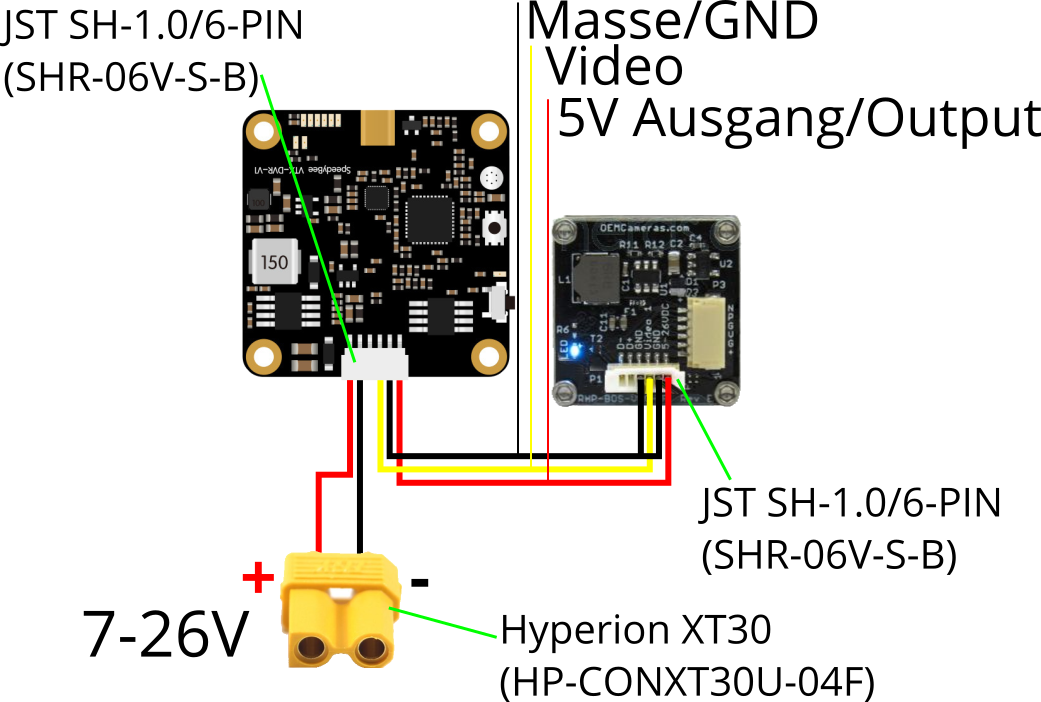
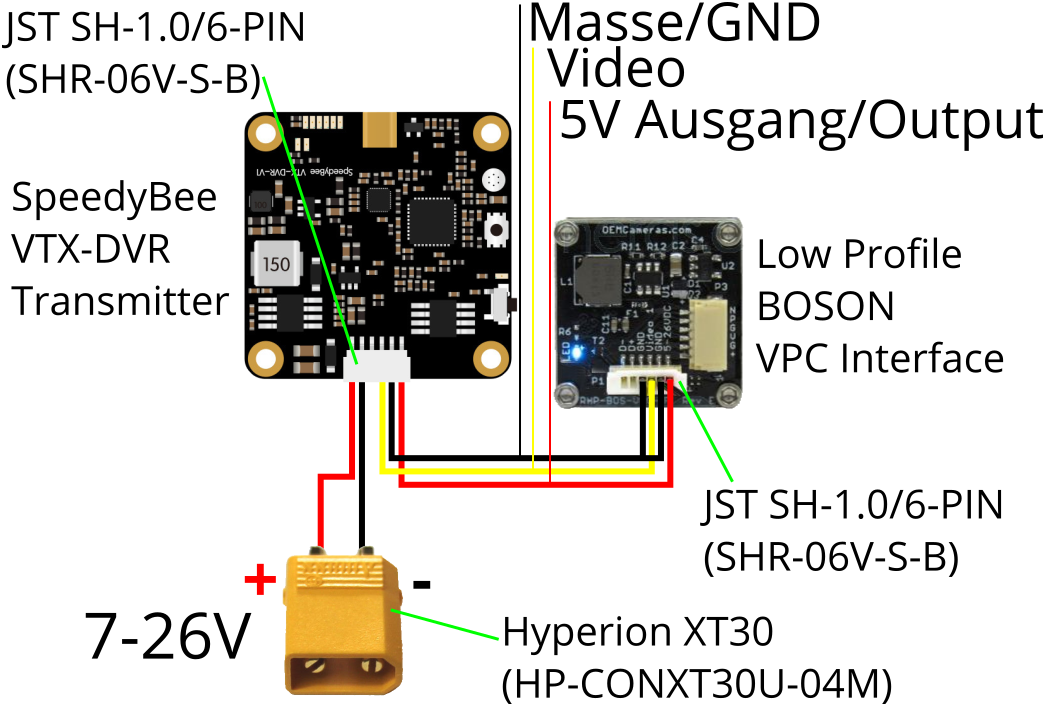
Erweiterung

diff --git a/BambiKamEasy/BambiKamEasyV8/README.md b/BambiKamEasy/BambiKamEasyV8/README.md
@@ -29,10 +29,10 @@
         - [Transmittergehäuse für den SpeedyBee VTX-DVR-Transmitter](#transmittergeh%C3%A4use-f%C3%BCr-den-speedybee-vtx-dvr-transmitter)
         - [Löten der Verbindungskabel für den TX801-Transmitter](#l%C3%B6ten-der-verbindungskabel-f%C3%BCr-den-tx801-transmitter)
         - [Löten der Verbindungskabel für den SpeedyBee VTX-DVR-Transmitter](#l%C3%B6ten-der-verbindungskabel-f%C3%BCr-den-speedybee-vtx-dvr-transmitter)
-- [Montage der Elemente auf der Grundplatte (Endmontage)](#montage-der-elemente-auf-der-grundplatte-endmontage)
-    - [Kamera montieren](#kamera-montieren)
     - [Verlegen der Kabel](#verlegen-der-kabel)
     - [Sender und Antenne montieren](#sender-und-antenne-montieren)
+- [Montage der Elemente auf der Grundplatte (Endmontage)](#montage-der-elemente-auf-der-grundplatte-endmontage)
+    - [Kamera montieren](#kamera-montieren)
 - [Anbringen der Grundplatte an den Kopter](#anbringen-der-grundplatte-an-den-kopter)
 - [Fliegen](#fliegen)
 - [Wichtige/wissenswerte Punkte](#wichtigewissenswerte-punkte)
@@ -76,7 +76,7 @@ Die BambiKam Easy sieht keine Halterung für einen separaten Akku vor.
 
 ## Kann die BambiKam auch an die Mavic 2 befestigt werden?
 
-Nein, derzeit gibt es noch keine BambiKam, welche die Mavic 2 unterstützt. Die Landekufen der Mavic 2 wurden neu gestaltet und es muss erst wieder eine Lösung gefunden werden.
+Nein, derzeit kann die BambiKam Easy noch nicht an eine Mavic 2 montiert werden. Die Landekufen der Mavic 2 wurden neu gestaltet und es muss erst wieder eine Lösung gefunden werden.
 
 ## Lizenz
 
@@ -98,6 +98,7 @@ Die Kamerahalterung und das Gehäuse für den Transmitter werden im 3D-Druckverf
 ## Anfertigen der BambiKam Easy
 
 Ist das Holz beschafft, so lässt sich die Form sehr einfach mit einem LaserCutter schneiden.
+
 Beispielsweise verfügen diverse Fablabs in der Schweiz über einen Lasercutter [Fablabs der Schweiz](https://fablab.ch/#/machine).
 So auch das [FablabWinti](https://www.fablabwinti.ch/das-lab/ausstattung/lasercutter/). (Neue Mitglieder sind immer herzlich willkommen!)
 
@@ -110,8 +111,8 @@ Das SVG [BambiKam_Easy_Aviatik_Sperrholz_2mm.svg](plan/BambiKam_Easy_Aviatik_Spe
 | Reihenfolge | Farbe    | Geschwindigkeit | Intensität |
 | ----------- | -------- | --------------- | ---------- |
 | 1           | Gelb     | 1000            | 3%         |
-| 2           | Pink     | 1000            | 70%        |
-| 3           | Schwarz  | 1000            | 70%        |
+| 2           | Pink     | 1000            | 65%        |
+| 3           | Schwarz  | 1000            | 65%        |
 | 4           | Rot      | ignorieren      | ignorieren |
 
 > Bitte beachten, dass die Holzmaserung gemäss dem roten Pfeil ausgerichtet wird.
@@ -166,29 +167,37 @@ Das Transmittergehäuse für den SpeedyBee VTX-DVR-Transmitter wird mit dem Deck
 
 ![Verkabelung](bilder/BambiKam_Easy_Verkabelung_TX801.png)
 
-Mit dem TX801-Transmitter wird ein Kabel mit einem JST GH 1.25 5-Pin-Stecker geliefert (links im Bild) und mit dem Interface ein Kabel mit einem JST SH 1.0 6-Pin-Stecker (rechts im Bild). Die beiden Kabel müssen wie im Bild aneinander gelötet werden. Die beiden Stromversorgungskabel (links unten im Bild) müssen womöglich noch etwas verlängert werden damit diese an der Drohne, welche für die Spannungsversorgung bereits vorbereitet wurde, eingesteckt werden können. Im Bild ist eine XT30-Buchse zu sehen.
+Mit dem TX801-Transmitter wird ein Kabel mit einem JST GH 1.25 5-Pin-Stecker geliefert (links im Bild) und mit dem Interface ein Kabel mit einem JST SH 1.0 6-Pin-Stecker (rechts im Bild). Die beiden Kabel müssen wie im Bild aneinander gelötet werden. Die beiden Stromversorgungskabel (links unten im Bild) müssen womöglich noch etwas verlängert werden damit diese an der Drohne, welche für die Spannungsversorgung bereits vorbereitet wurde, eingesteckt werden können. Im Bild ist ein XT30-Stecker zu sehen.
 
 #### Löten der Verbindungskabel für den SpeedyBee VTX-DVR-Transmitter
 
 ![Verkabelung](bilder/BambiKam_Easy_Verkabelung_SpeedyBee-VTX-DVR.png)
 
-Mit dem SpeedyBee VTX-DVR-Transmitter wird ein Kabel mit einem JST SH 1.0 6-Pin-Stecker geliefert (links im Bild) und mit dem Interface ein Kabel mit (ebenfalls) einem JST SH 1.0 6-Pin-Stecker (rechts im Bild). Die beiden Kabel müssen wie im Bild aneinander gelötet werden. Die beiden Stromversorgungskabel (links unten im Bild) müssen womöglich noch etwas verlängert werden damit diese an der Drohne, welche für die Spannungsversorgung bereits vorbereitet wurde, eingesteckt werden können. Im Bild ist eine XT30-Buchse zu sehen.
-
-## Montage der Elemente auf der Grundplatte (Endmontage)
-
-### Kamera montieren
-
-Die Kamera kann erst nach der Montage der Kamerahalterung montiert werden. Die Kamera wird mittels den langen Schrauben, die mit dem Interface mitgeliefert werden, festgeschraubt.
+Mit dem SpeedyBee VTX-DVR-Transmitter wird ein Kabel mit einem JST SH 1.0 6-Pin-Stecker geliefert (links im Bild) und mit dem Interface ein Kabel mit (ebenfalls) einem JST SH 1.0 6-Pin-Stecker (rechts im Bild). Die beiden Kabel müssen wie im Bild aneinander gelötet werden. Die beiden Stromversorgungskabel (links unten im Bild) müssen womöglich noch etwas verlängert werden damit diese an der Drohne, welche für die Spannungsversorgung bereits vorbereitet wurde, eingesteckt werden können. Im Bild ist ein XT30-Stecker zu sehen.
 
 ### Verlegen der Kabel
 
-Die Kabel können (je nach Länge) nahe des oberen Abstandhalters entlang oder mittig, zwischen die zwei grossen Löcher, gelegt werden und der Einfachheit halber mit zwei kleinen Kabelbindern befestigt werden.
+Die Kabel können (je nach Länge) nahe des oberen Abstandhalters entlang oder mittig, zwischen die zwei grossen Löcher, gelegt werden und der Einfachheit halber mit zwei kleinen Kabelbindern oder Flüssiggummi befestigt werden.
 
 ### Sender und Antenne montieren
 
 >Es ist wichtig, dass die Antenne während des Betriebes nicht abfallen kann. Wird der Sender ohne Antenne betrieben, kann dieser beschädigt werden.
 
-Der Sender wird in das Gehäuse eingeschoben, wobei darauf geachtet werden muss, dass die quadratische Fläche um das Antennengewinde plan mit dem Gehäuse ist. Die Antenne soll dabei nach vorne zeigen.
+Der Sender wird in das Gehäuse eingeschoben, wobei darauf geachtet werden muss, dass die quadratische Fläche um das Antennengewinde plan mit dem Gehäuse ist. Die Antenne soll dabei nach vorne zeigen. Die Antenne muss anschliessend mit einem Schraubenschlüssel gut angezogen werden. Wichtig ist, dass sich die Antenne nicht mehr selbständig in der Fassung drehen kann.
+
+## Montage der Elemente auf der Grundplatte (Endmontage)
+
+### Kamera montieren
+
+Bevor die Kamera  montiert werden kann, muss das Interface auf die Kamera aufgesteckt werden. Der Stecker ist nicht leichtgängig und es kann helfen, wenn man das Interface vorsichtig mit den kurzen Schrauben an der Kamera festschraubt.
+
+![rhp-bos-vpc-if](.\bilder\BambiKam_Easy_rhp-bos-vpc-if.png)
+
+Wenn kein Spalt mehr zwischen Interface und Kamera vorhanden ist, können die Schrauben wieder gelöst werden und die Kamera mit Interface in das Gehäuse auf der rechten Seite eingeschoben werden. Dabei ist darauf zu achten, dass die Ausrichtung des nach oben zeigenden Steckers des Interfaces korrekt ist.
+
+Die Befestigung erfolgt mit den langen Schrauben, welche mit dem Interface mitgeliefert wurden.
+
+Der Stecker des Kabels muss anschliessend noch auf dem Interface aufgesteckt werden.
 
 ## Anbringen der Grundplatte an den Kopter
 
@@ -205,7 +214,7 @@ Durch das geringe Gewicht der BambiKam Easy wird auch die Flugzeit nicht allzu n
 - Der Sender darf *nie* ohne Antenne mit Strom versorgt werden, da sonst der Sender zerstört wird.
 - Das an der Stromversorgung angehängte Kabel führt nur Strom, wenn die Drohne eingeschaltet ist. Ein Ein-/Aus-Schalter ist nicht nötig.
 - Die Kunststoffteile sind aus PLA gefertigt. Bitte lassen Sie diese nicht im heissen Auto liegen, da es sonst allenfalls zu Verformungen kommen könnte.
-- Die FLIR Boson 640 50° (8.7 mm) eignet sich auf Grund der Objektivgrösse nicht für die BambiKam Easy.
+- Die BambiKam Easy ist derzeit nur für die [FLIR Boson](https://www.oemcameras.com/thermal-imaging-cameras/thermal-imaging-cores/flir-boson-series.htm) [320 50° (4.3mm Linse)](https://www.oemcameras.com/flir-boson-320x256-4mm.htm) oder [34° (6.3mm Linse)](https://www.oemcameras.com/flir-boson-320x256-6mm.htm) und das [Interface Low Profile BOSON VPC Interface Module](https://www.oemcameras.com/rhp-bos-vpc-if.htm) ausgelegt. 
 
 ## Testflug mit der BambiKam V6
 
